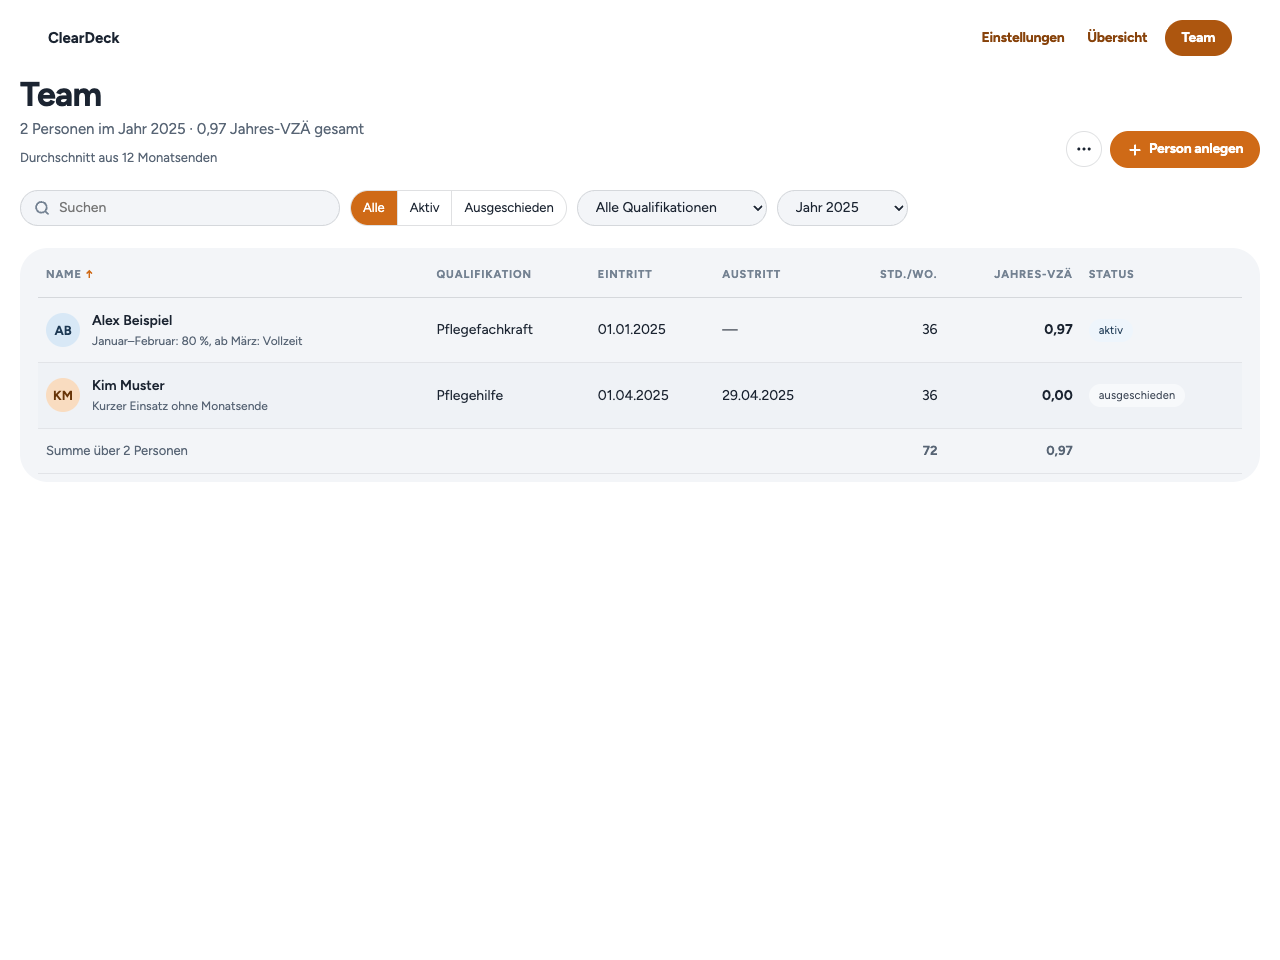
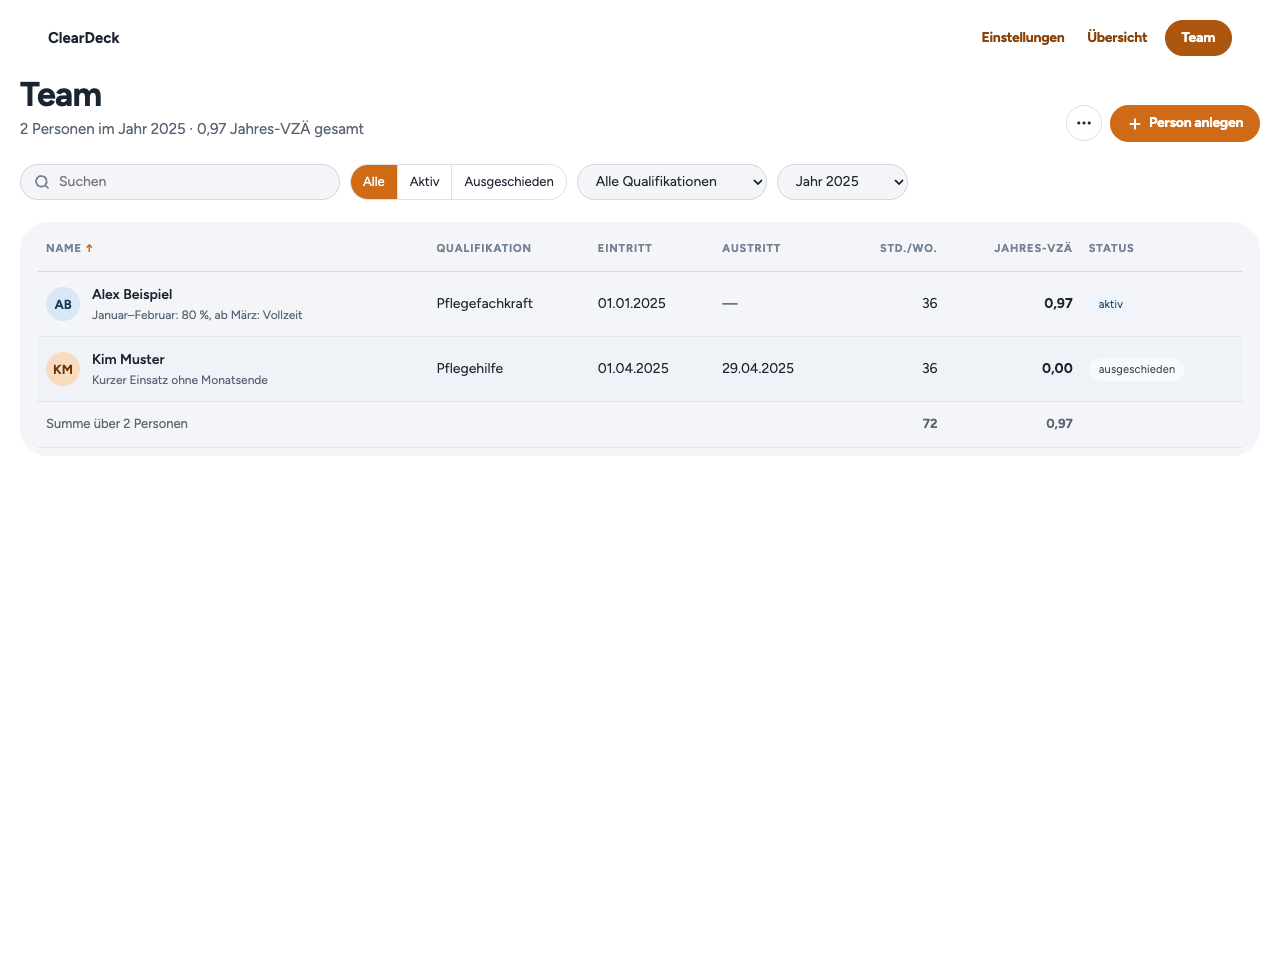
Berechnungsart direkt an VZÄ-Werten als Hover-Hinweis anzeigen

diff --git a/src/components/pages/EmployeeList.tsx b/src/components/pages/EmployeeList.tsx
@@ -77,6 +77,7 @@ const EmployeeList = ({
 }: EmployeeListProps) => {
   const [sort, setSort] = useState<{ key: SortKey; dir: 1 | -1 }>({ key: 'name', dir: 1 });
   const today = localDate();
+  const fteTitle = !directoryMode && annualFteMethod ? annualFteLabel(annualFteMethod) : undefined;
 
   const rows = useMemo(() => {
     const value = (employee: EmployeeWithPeriod): string | number => {
@@ -146,7 +147,7 @@ const EmployeeList = ({
       cell: (employee) => {
         const missing = directoryMode ? employee.hoursMissing : employee.annualFteMissing ?? employee.hoursMissing;
         const value = directoryMode ? employee.fte : employee.annualFte ?? employee.fte;
-        return <strong title={missing ? 'Unvollständig: Stellenanteile fehlen im Jahresverlauf.' : undefined}>{missing ? '—' : fte2(value)}</strong>;
+        return <strong title={missing ? [fteTitle, 'Unvollständig: Stellenanteile fehlen.'].filter(Boolean).join('. ') : fteTitle}>{missing ? '—' : fte2(value)}</strong>;
       },
     },
   ];
@@ -167,13 +168,11 @@ const EmployeeList = ({
           <p className="cd-muted" style={{ margin: '4px 0 0' }}>
             {directoryMode
               ? `${filteredEmployees.length} jemals beschäftigte Personen · jeweils letzter erfasster Stand`
-              : `${filteredEmployees.length} Personen im Jahr ${year} · ${fte2(totalFte)} Jahres-VZÄ gesamt`}
+              : <>{filteredEmployees.length} Personen im Jahr {year} · <span title={fteTitle}>{fte2(totalFte)} Jahres-VZÄ gesamt</span></>}
           </p>
-          {!directoryMode && annualFteMethod && (
+          {!directoryMode && filteredEmployees.some(e => e.annualFteMissing || e.annualFteVerified === false) && (
             <p className="cd-muted-13" style={{ margin: '6px 0 0' }}>
-              {annualFteLabel(annualFteMethod)}
-              {filteredEmployees.some(e => e.annualFteMissing || e.annualFteVerified === false) &&
-                ' · Vorläufig: Stellenanteile fehlen oder sind unbestätigt.'}
+              Vorläufig: Stellenanteile fehlen oder sind unbestätigt.
             </p>
           )}
         </div>
@@ -288,14 +287,14 @@ const EmployeeList = ({
                   label: `Summe über ${rows.length} Personen`,
                   cells: {
                     weeklyHours: <strong>{totalHours || '—'}</strong>,
-                    fte: <strong>{fte2(shownFte)}</strong>,
+                    fte: <strong title={fteTitle}>{fte2(shownFte)}</strong>,
                   },
                 }
           }
           compactFooter={
             <>
               <span>{rows.length} Personen</span>
-              <strong>{directoryMode ? 'Letzter Stand je Person' : `${fte2(shownFte)} Jahres-VZÄ`}</strong>
+              <strong title={fteTitle}>{directoryMode ? 'Letzter Stand je Person' : `${fte2(shownFte)} Jahres-VZÄ`}</strong>
             </>
           }
         />

diff --git a/src/components/pages/Dashboard.tsx b/src/components/pages/Dashboard.tsx
@@ -124,7 +124,7 @@ const Dashboard = ({
     {
       value: fte2(totalFte),
       label: annual ? 'Jahres-VZÄ gesamt' : 'VZÄ gesamt',
-      sub: methodLabel,
+      title: methodLabel,
       color: 'var(--color-accent-700)',
     },
     {
@@ -136,7 +136,7 @@ const Dashboard = ({
     {
       value: fte2(totalFte / Math.max(1, totalHeadcount)),
       label: annual ? 'Ø Jahres-VZÄ je Person' : 'Ø VZÄ je Person',
-      sub: 'über alle im Jahr Beschäftigten',
+      title: `${methodLabel}; über alle im Jahr Beschäftigten`,
       color: 'var(--color-text)',
     },
     {
@@ -209,11 +209,11 @@ const Dashboard = ({
       <section className="cd-kpis">
         {kpis.map((kpi) => (
           <div key={kpi.label}>
-            <div className="cd-kpi-value" style={{ color: kpi.color }}>
+            <div className="cd-kpi-value" title={kpi.title} style={{ color: kpi.color }}>
               {kpi.value}
             </div>
             <div style={{ fontWeight: 600, marginTop: 8 }}>{kpi.label}</div>
-            <div className="cd-muted-13">{kpi.sub}</div>
+            {kpi.sub && <div className="cd-muted-13">{kpi.sub}</div>}
           </div>
         ))}
       </section>
@@ -232,7 +232,7 @@ const Dashboard = ({
                     ? 'Personen an mindestens einem Monatsende; je Qualifikation einmal gezählt.'
                     : undefined}>
                     {category.headcount} Personen ·{' '}
-                    <strong style={{ color: 'var(--color-text)' }}>{fte2(category.fte)}</strong> VZÄ
+                    <strong title={methodLabel} style={{ color: 'var(--color-text)' }}>{fte2(category.fte)}</strong> VZÄ
                   </span>
                 </div>
                 <div className="cd-bar-track">
